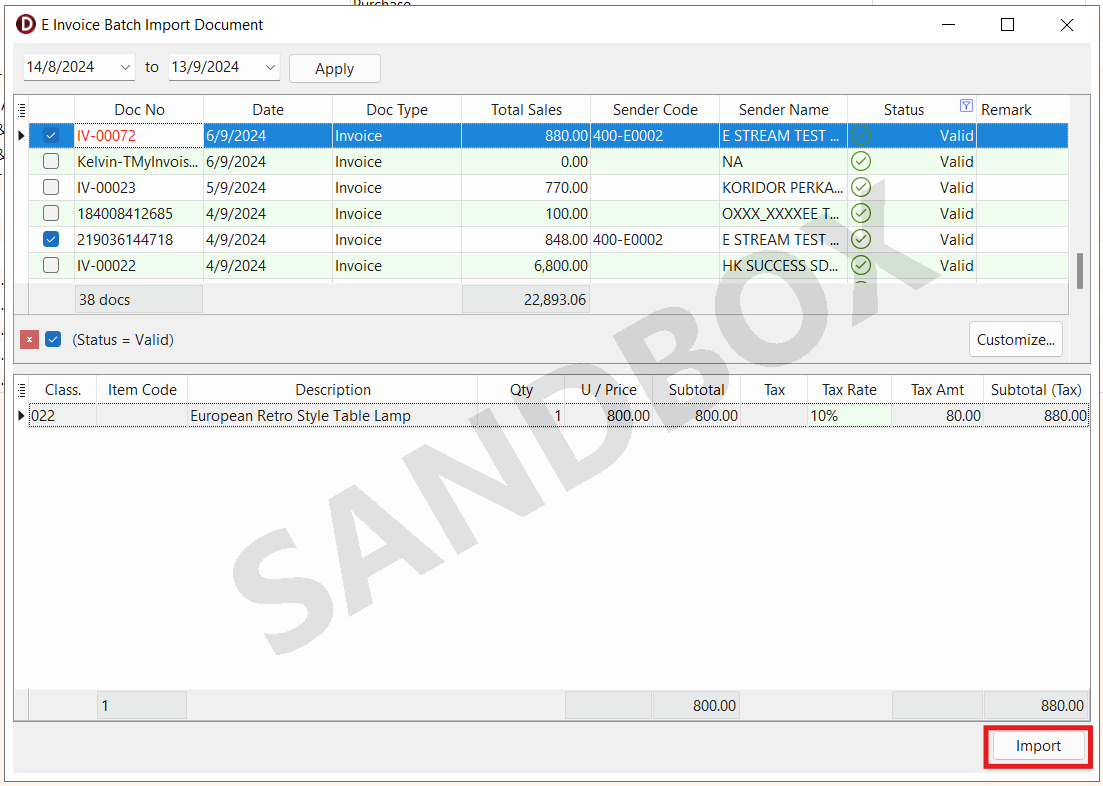
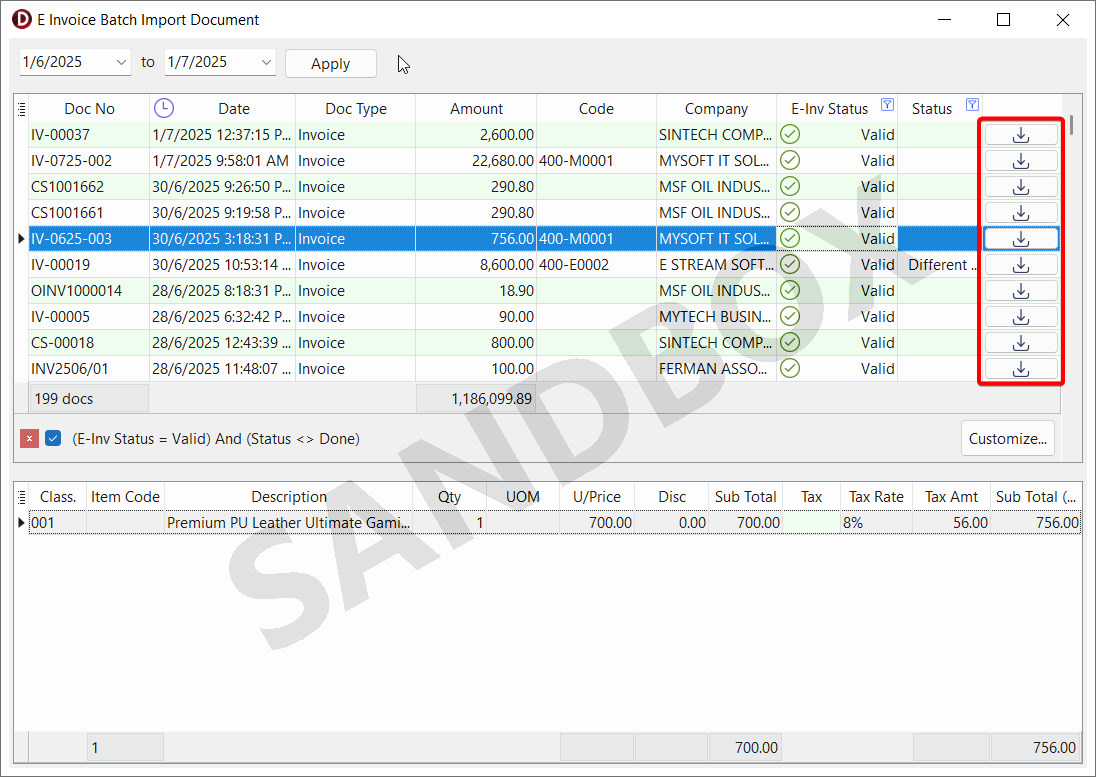
feat: update myinvois import

diff --git a/docs/usage/myinvois/einvoice-operation.md b/docs/usage/myinvois/einvoice-operation.md
@@ -216,63 +216,27 @@ You can view all past submission and cancellation log of an invoice.
 
     ![sales-invoice-log](../../../static/img/myinvois/einvoice/sales-invoice-log.png)
 
-## Purchase Documents Import
+## Import
 
-SQL Account offers two methods for importing purchase documents from the E-Invoice system:
+SQL Account offers two methods for importing sales or purchase documents from the E-Invoice system:
 
-- [Single Import](#single-import): Enables you to import individual documents.
 - [Batch Import](#batch-import): Allows you to import multiple documents at once.
+- [Linking](#linking): Allows you to link the existing document with received E-Invoice document.
 
 To ensure proper import, it's important to understand how the document types in SQL Account are mapped to those received from the E-Invoice system. The table below shows how the document types in the SQL Account are mapped to those received from the E-Invoice system:
 
 | SQL Account Document Type | E-Invoice Document Type |
 | ------------------------- | ----------------------- |
+| Sales Invoice             | Self-Billed Invoice     |
+| Cash Sales                | Self-Billed Invoice     |
+| Credit Note               | Self-Billed Credit Note |
+| Debit Note                | Self-Billed Debit Note  |
+| Receipt Voucher           | Self-Billed Invoice     |
 | Purchase Invoice          | Invoice                 |
 | Cash Purchase             | Invoice                 |
 | Purchase Returned         | Credit Note             |
 | Purchase Debit Note       | Debit Note              |
-
-### Single Import
-
-You can view all received documents and single import into SQL Account.
-
-1. Go to document detail screen and click on **MyInvois** > **Single import E-Invoice**
-
-    ![purchase-invoice-single-import-button](../../../static/img/myinvois/einvoice/purchase-invoice-single-import-button.png)
-
-    ![purchase-invoice-single-import-form](../../../static/img/myinvois/einvoice/purchase-invoice-single-import-form.png)
-
-2. Choose the desired date range and press the **Apply** button to filter the documents
-
-    ![purchase-invoice-single-import-form-daterange](../../../static/img/myinvois/einvoice/purchase-invoice-single-import-form-daterange.png)
-
-3. The table will display the list of E-Invoice documents your company has received
-
-    ![purchase-invoice-single-import-form-apply](../../../static/img/myinvois/einvoice/purchase-invoice-single-import-form-apply.png)
-
-4. SQL Account will auto-map the supplier code if the supplier's TIN matches the TIN in Maintain Supplier
-
-    :::info[NOTE]
-    We suggest adding the TIN for existing suppliers or creating a new supplier record
-    :::
-
-    :::info[NOTE]
-    A supplier code is required. An error message will appear if you attempt to import a document without a supplier code
-    :::
-
-    ![purchase-invoice-single-import-form-select-supplier](../../../static/img/myinvois/einvoice/purchase-invoice-single-import-form-select-supplier.png)
-
-    ![purchase-invoice-single-import-form-select-supplier-error](../../../static/img/myinvois/einvoice/purchase-invoice-single-import-form-select-supplier-error.png)
-
-5. Once you have selected the desired documents, click on the **Import** button to proceed with the single import
-
-    ![purchase-invoice-single-import](../../../static/img/myinvois/einvoice/purchase-invoice-single-import.png)
-
-    ![purchase-invoice-single-import-details](../../../static/img/myinvois/einvoice/purchase-invoice-single-import-details.png)
-
-6. After reviewing the document details, click **Save** to complete the process
-
-    ![purchase-invoice-single-import-success](../../../static/img/myinvois/einvoice/purchase-invoice-single-import-success.png)
+| Payment Voucher           | Invoice                 |
 
 ### Batch Import
 
@@ -295,30 +259,77 @@ You can view all received documents and batch import into SQL Account.
 
     ![purchase-invoice-batch-import-form-apply](../../../static/img/myinvois/einvoice/purchase-invoice-batch-import-form-apply.png)
 
-4. You can select multiple documents using the checkboxes provided
-5. SQL Account will auto-map the supplier code if the supplier's TIN matches the TIN in Maintain Supplier
+4. Each document will display a status in the **Status** column. Below is the description and import action of each status:
+
+    | Status         | Description                                         | Action                          |
+    | -------------- | --------------------------------------------------- | ------------------------------- |
+    | (Blank)        | Not yet imported                                    | Create new document             |
+    | Doc Exists     | Document already exists in the system               | Update E-Invoice related fields |
+    | Different UUID | Document exists but with a different E-Invoice UUID | Create new document             |
+    | Done           | Successfully imported                               | -                               |
 
     :::info[NOTE]
-    We suggest adding the TIN for existing suppliers or creating a new supplier record
+    Double-clicking a row will drill down into the existing document, while double-clicking the **E-Invoice Status** column will open the validation link
     :::
+
+5. SQL Account will auto-map the Customer/Supplier Code using the following conditions:
+
+    - Same **TIN** (prioritized)
+    - Same **ID Number** or similar **Company Name**
 
     ![purchase-invoice-batch-import-form-select-supplier](../../../static/img/myinvois/einvoice/purchase-invoice-batch-import-form-select-supplier.png)
 
 6. A tax code is required for an item if the tax amount is greater than 0
 
-    :::info[NOTE]
-    The document will displayed in **red font** if the tax code is missing when it is required
-    :::
-
     ![purchase-invoice-batch-import-form-select-tax](../../../static/img/myinvois/einvoice/purchase-invoice-batch-import-form-select-tax.png)
 
-    ![purchase-invoice-batch-import-form-tax](../../../static/img/myinvois/einvoice/purchase-invoice-batch-import-form-tax.png)
-
-7. Once you have selected the desired documents, click on the **Import** button to proceed with the batch import
+7. You may click on the **Import** button to proceed with the import
 
     ![purchase-invoice-batch-import](../../../static/img/myinvois/einvoice/purchase-invoice-batch-import.png)
 
+8. A message dialog  will indicate success or display an error, if any
+
     ![purchase-invoice-batch-import-success](../../../static/img/myinvois/einvoice/purchase-invoice-batch-import-success.png)
+
+    ![purchase-invoice-batch-import-error](../../../static/img/myinvois/einvoice/purchase-invoice-batch-import-error.png)
+
+### Linking
+
+You can view and link the received E-Invoice documents associated with the TIN of the selected document to update its E-Invoice related fields.
+
+1. Click on **🔍** of MyInvois UUID field in more panel
+
+    ![purchase-invoice-linking](../../../static/img/myinvois/einvoice/purchase-invoice-linking.png)
+
+2. The form will display only documents related to the same TIN as the selected record
+
+    ![purchase-invoice-linking-form](../../../static/img/myinvois/einvoice/purchase-invoice-linking-form.png)
+
+3. Select the appropriate document and click on the **Update** button to link it
+
+### Create / Update Customer or Supplier
+
+To create or update a customer or supplier from the import form, follow these steps:
+
+1. Click on the **Company Name** column
+
+    :::info[NOTE]
+    If the Customer/Supplier Code has value, SQL Account will update the existing record. If it is empty, a new customer/supplier will be created.
+    :::
+
+    ![purchase-invoice-batch-import-update-supplier](../../../static/img/myinvois/einvoice/purchase-invoice-batch-import-update-supplier.png)
+
+2. A comparison view will appear showing fields from the existing record in Maintain Customer/Supplier and the E-Invoice document
+
+    :::info[NOTE]
+    - The selected value will appear in **bold**
+    - The unselected value will be shown with a ~~strikethrough~~
+    - If both values (from E-Invoice and existing record) are identical, the cell will be merged
+    :::
+
+    ![purchase-invoice-batch-import-supplier-form](../../../static/img/myinvois/einvoice/purchase-invoice-batch-import-supplier-form.png)
+
+3. Click the **Create** or **Update** button to apply the changes to the customer or supplier record
 
 ## Rejection (Imported Documents)
 

diff --git a/docs/usage/myinvois/einvoice.md b/docs/usage/myinvois/einvoice.md
@@ -52,6 +52,8 @@ After saving your Sales Invoice or Cash Sales document, you can access E-Invoice
 - [Test E-Invoice Validation](e-invoice-operation#test-e-invoice-validation)
 - [Share PDF](e-invoice-operation#share-pdf-experimental)
 - [E-Invoice Request](e-invoice-operation#e-invoice-request)
+- [Batch Import](e-invoice-operation#batch-import)
+- [Linking](e-invoice-operation#linking)
 
 ### Credit Note
 
@@ -141,6 +143,8 @@ After saving your Credit Note document, you can access E-Invoice operations thro
 - [Batch Refresh Status](e-invoice-operation#batch-refresh-status)
 - [Test E-Invoice Validation](e-invoice-operation#test-e-invoice-validation)
 - [Share PDF](e-invoice-operation#share-pdf-experimental)
+- [Batch Import](e-invoice-operation#batch-import)
+- [Linking](e-invoice-operation#linking)
 
 ### Debit Note
 
@@ -192,6 +196,8 @@ After saving your Debit Note document, you can access E-Invoice operations throu
 - [Batch Refresh Status](e-invoice-operation#batch-refresh-status)
 - [Test E-Invoice Validation](e-invoice-operation#test-e-invoice-validation)
 - [Share PDF](e-invoice-operation#share-pdf-experimental)
+- [Batch Import](e-invoice-operation#batch-import)
+- [Linking](e-invoice-operation#linking)
 
 ## Purchase
 
@@ -242,8 +248,8 @@ After saving your Purchase Invoice or Cash Purchase document, you can access E-I
 
 - [Submission](e-invoice-operation#submission)
 - [Consolidate](e-invoice-operation#consolidate)
-- [Single Import](e-invoice-operation#single-import)
 - [Batch Import](e-invoice-operation#batch-import)
+- [Linking](e-invoice-operation#linking)
 - [Cancellation (Self-Billed)](e-invoice-operation#cancellation)
 - [Rejection (Imported)](e-invoice-operation#rejection-imported-documents)
 - [Refresh Status](e-invoice-operation#refresh-status)
@@ -334,8 +340,8 @@ Please ensure that the referenced documents are validated Self-Billed E-Invoices
 After saving your Purchase Returned document, you can access E-Invoice operations through the **MyInvois** button. These operations help you manage your E-Invoices efficiently. Use the links below to navigate to the specific operation section for detailed instructions:
 
 - [Submission](e-invoice-operation#submission)
-- [Single Import](e-invoice-operation#single-import)
 - [Batch Import](e-invoice-operation#batch-import)
+- [Linking](e-invoice-operation#linking)
 - [Cancellation (Self-Billed)](e-invoice-operation#cancellation)
 - [Rejection (Imported)](e-invoice-operation#rejection-imported-documents)
 - [Refresh Status](e-invoice-operation#refresh-status)
@@ -388,8 +394,8 @@ Please ensure that the referenced documents are validated Self-Billed E-Invoices
 After saving your Purchase Debit Note document, you can access E-Invoice operations through the **MyInvois** button. These operations help you manage your E-Invoices efficiently. Use the links below to navigate to the specific operation section for detailed instructions:
 
 - [Submission](e-invoice-operation#submission)
-- [Single Import](e-invoice-operation#single-import)
 - [Batch Import](e-invoice-operation#batch-import)
+- [Linking](e-invoice-operation#linking)
 - [Cancellation (Self-Billed)](e-invoice-operation#cancellation)
 - [Rejection (Imported)](e-invoice-operation#rejection-imported-documents)
 - [Refresh Status](e-invoice-operation#refresh-status)
